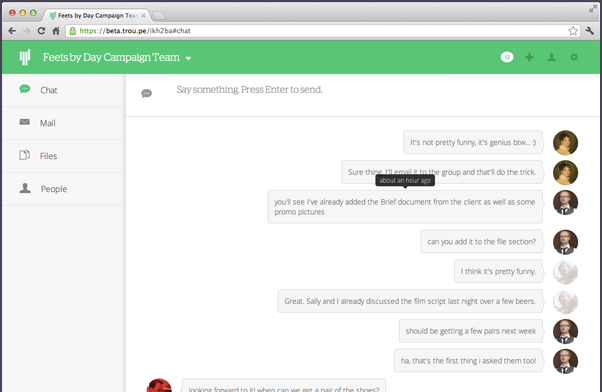
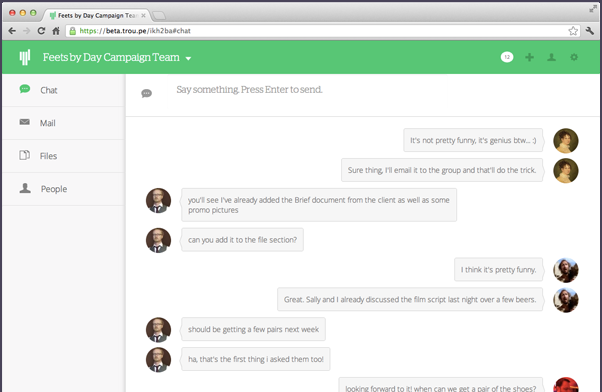
carousel on signup page, again, probably a neater solution, but it works

diff --git a/public/js/signup.js b/public/js/signup.js
@@ -1,19 +1,5 @@
 require.config(window.require_config);
 
-// Two weird things I can't figure out here.
-// Firstly, the first time you click Get Started if you haven't touched any of the form elements, no tooltip shows
-// even though the tooltip show call looks like it happens - I tested to make sure it was being executed by putting an alert before it
-// I thought it maybe had something to do with the form field automatically focusing, so I turned focusInvalid on the validater off
-// and that didn't do anything. 
-//
-// AH! I figured it out. The tooltip element hasn't been created yet or something like that. If I pre-create the tooltip in the HTML (see the moustache file)
-// then it's all fine. But this is a filthy hack.
-
-// The second bit I don't get is that the tooltips continue to show afterwards, even if I try to set options.trigger to manual, they still still
-// on hover and focus. Annoying.
-//
-// Anyhoo, it's a bit of a mess at the moment, but at least it won't submit with bad shit in it.
-
 require(
     [
     'jquery',
@@ -33,6 +19,41 @@ require(
             return v ? v:"";
           }});
       }
+
+jQuery(function($) { 
+
+  // settings
+  var $slider = $('.slider'); // class or id of carousel slider
+  var $slide = 'li'; // could also use 'img' if you're not using a ul
+  var $transition_time = 1500; // 1 second
+  var $time_between_slides = 4000; // 4 seconds
+
+  function slides(){
+    return $slider.find($slide);
+  }
+
+  slides().fadeOut();
+
+  // set active classes
+  slides().first().addClass('active');
+  slides().first().fadeIn($transition_time);
+
+  $interval = setInterval(
+    function(){
+      var $i = $slider.find($slide + '.active').index();
+
+      slides().eq($i).removeClass('active');
+      slides().eq($i).fadeOut($transition_time);
+
+      if (slides().length == $i + 1) $i = -1; // loop to start
+
+      slides().eq($i + 1).fadeIn($transition_time);
+      slides().eq($i + 1).addClass('active');
+    }
+    , $transition_time +  $time_between_slides 
+  );
+
+});
 
       $('.button-signup').on('click', function() {
         var view = new SignupModalView({existingUser: false});

diff --git a/public/bootstrap/less/trp2.less b/public/bootstrap/less/trp2.less
@@ -128,6 +128,21 @@ h1 {
   margin: 0;
 }
 
+.slider {
+  margin: 0px 0;
+  width: 602px; /* Update to your slider width */
+  height: 392px; /* Update to your slider height */
+  position: relative;
+  overflow: hidden;
+}
+
+.slider li {
+  display: none;
+  position: absolute; 
+  top: 0; 
+  left: 0; 
+}
+
 .trpHomeTopStripContainer {
   background-color: @trpPurple;
   width: 100%;
